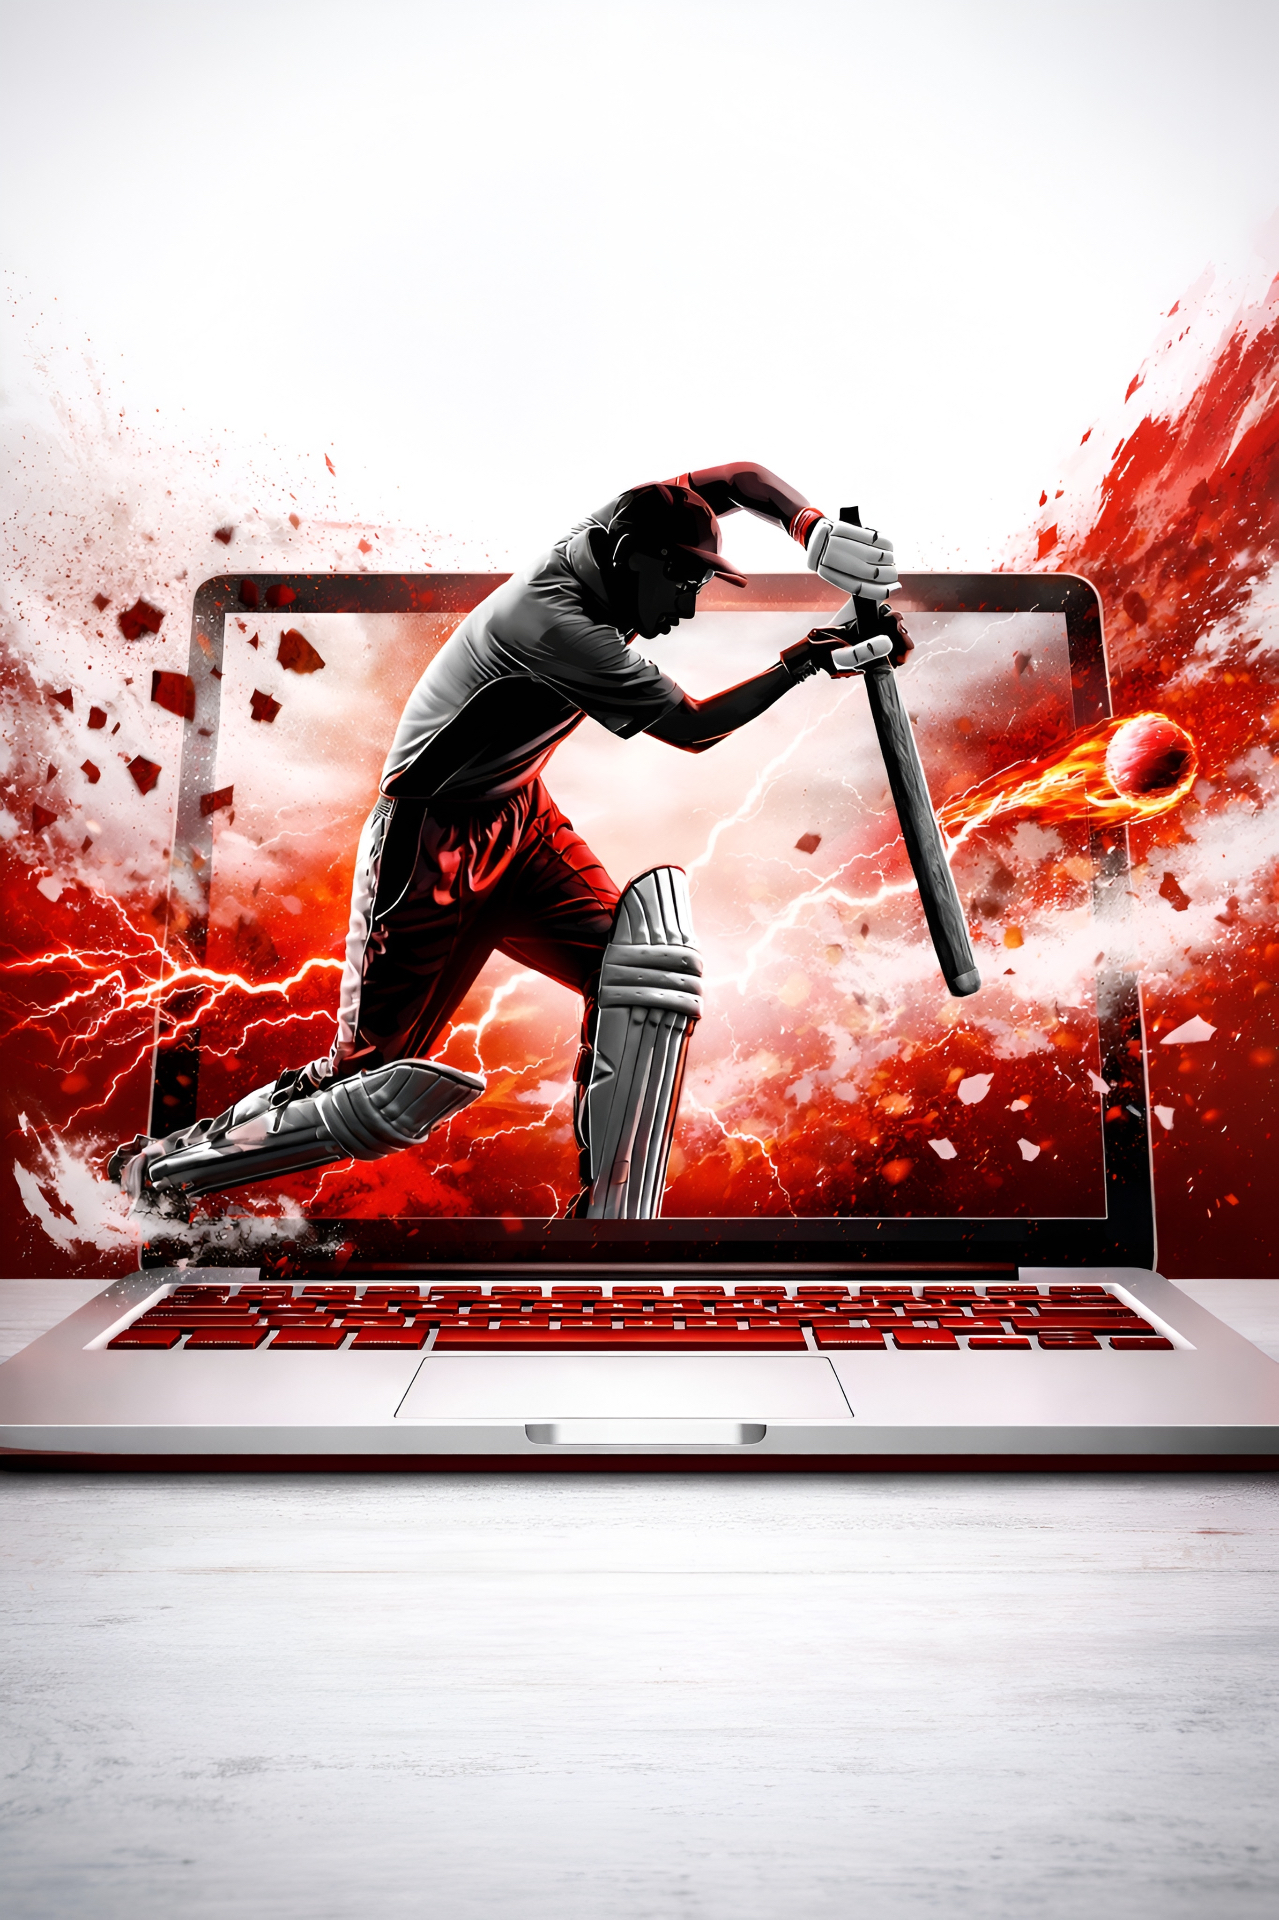
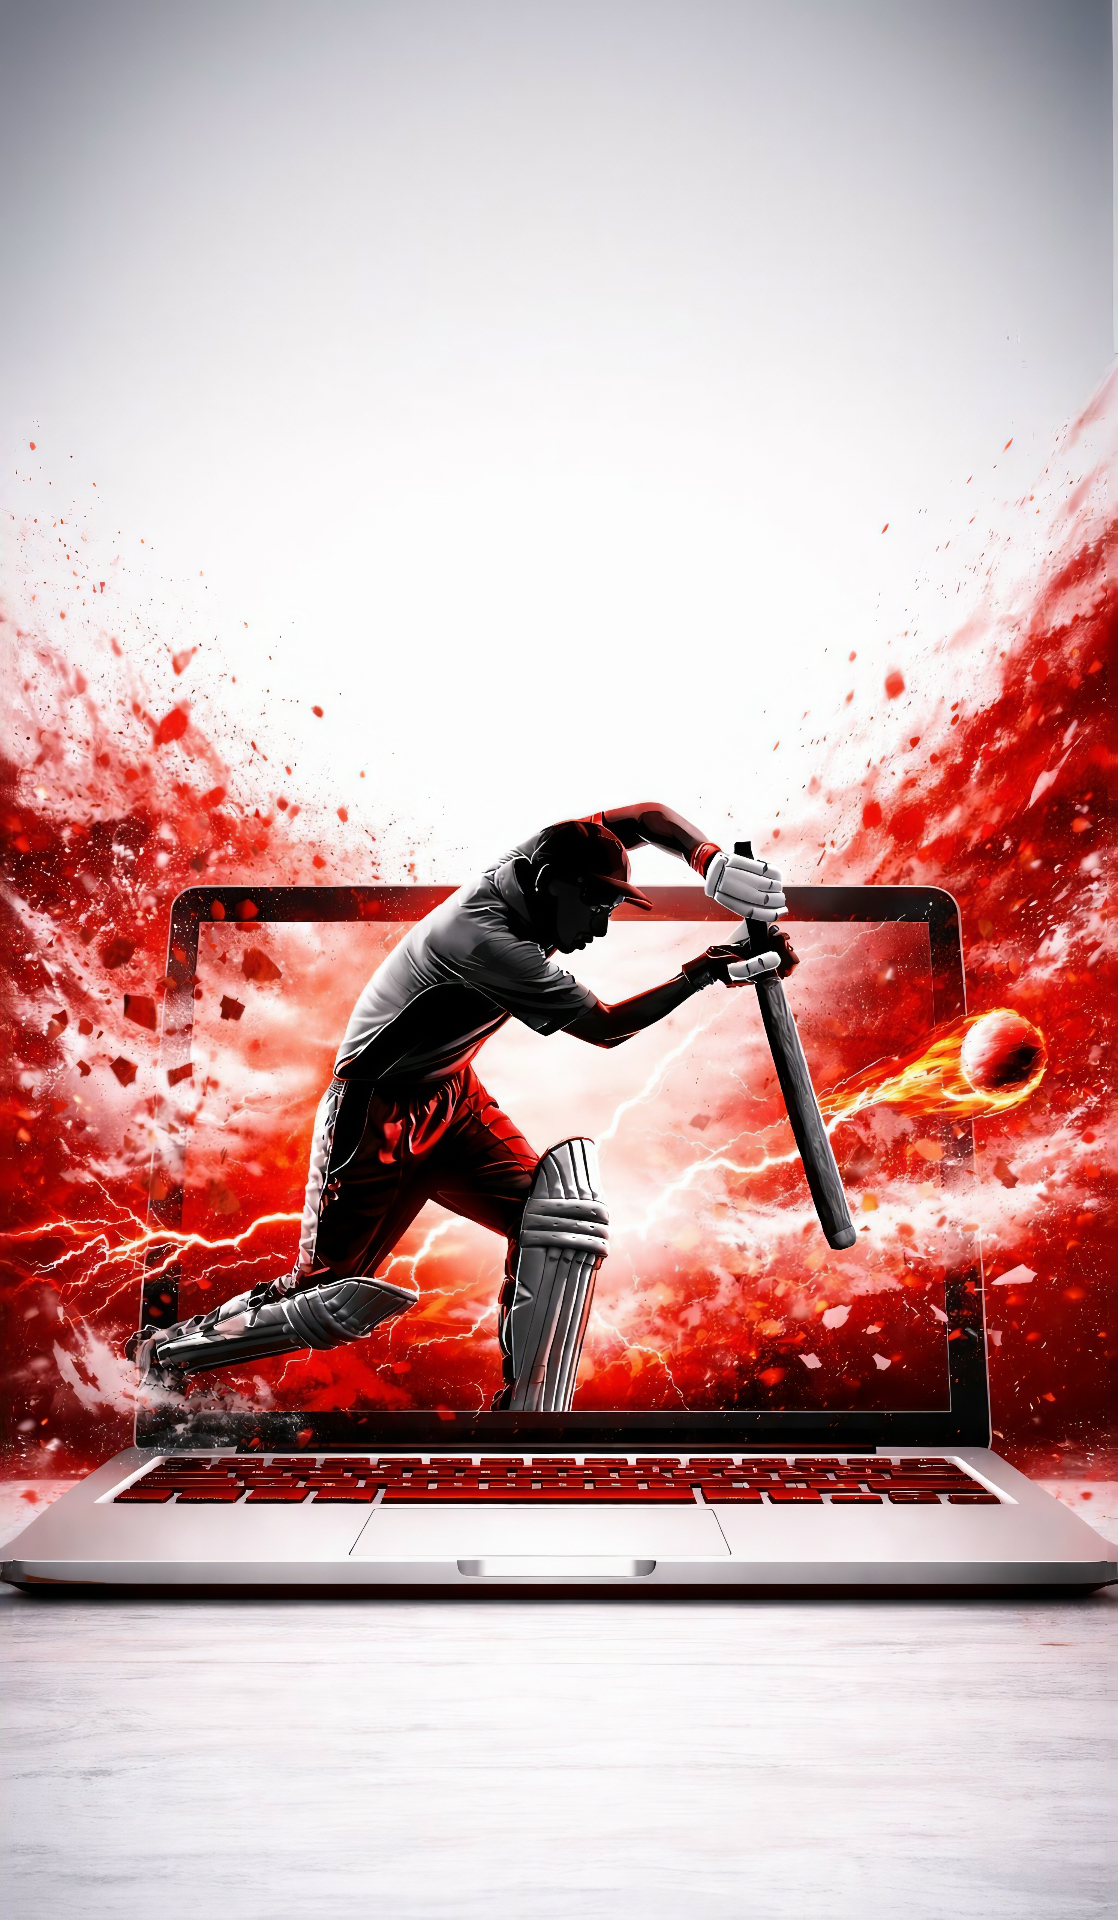
Changes

diff --git a/src/components/HeroSection.tsx b/src/components/HeroSection.tsx
@@ -4,15 +4,16 @@ import brlLogo from "@/assets/logos/brl-logo-new.png";
 
 const HeroSection = () => {
   return (
-    <section id="hero" className="relative min-h-screen flex items-end justify-center overflow-hidden">
+    <section id="hero" className="relative min-h-screen flex items-center justify-center overflow-hidden bg-gradient-to-b from-white via-white to-background">
       <img
         src={heroBatsman}
         alt="Cricket batsman striking the ball"
-        className="absolute inset-0 w-full h-full object-cover object-top"
+        className="absolute inset-0 w-full h-full object-cover object-center"
       />
-      <div className="absolute inset-0 bg-gradient-to-t from-black/70 via-black/20 to-transparent" />
+      <div className="absolute inset-0 bg-gradient-to-b from-white/40 via-transparent to-background/90" />
+      <div className="absolute inset-0 bg-gradient-to-r from-white/30 via-transparent to-white/30" />
 
-      <div className="container relative z-10 pb-16 md:pb-24 pt-32">
+      <div className="container relative z-10 pt-24 pb-16 md:pb-24">
         <motion.div
           initial={{ opacity: 0, y: 30 }}
           animate={{ opacity: 1, y: 0 }}
@@ -20,26 +21,26 @@ const HeroSection = () => {
           className="text-center"
         >
           <img src={brlLogo} alt="BRL Logo" className="w-20 h-20 sm:w-24 sm:h-24 md:w-28 md:h-28 object-contain mx-auto mb-4 drop-shadow-2xl" />
-          <p className="text-white/70 font-display text-xs sm:text-sm md:text-base font-semibold tracking-[0.3em] uppercase mb-3 drop-shadow-lg">
+          <p className="text-foreground/60 font-display text-xs sm:text-sm md:text-base font-semibold tracking-[0.3em] uppercase mb-3">
             Season 2026 • Bihar's Biggest Cricket Tournament
           </p>
-          <h1 className="font-heading text-4xl sm:text-5xl md:text-7xl lg:text-8xl font-black leading-[1.05] mb-4 drop-shadow-2xl">
-            <span className="text-white">WHERE RURAL</span>
+          <h1 className="font-heading text-4xl sm:text-5xl md:text-7xl lg:text-8xl font-black leading-[1.05] mb-4">
+            <span className="text-foreground">WHERE RURAL</span>
             <br />
-            <span className="text-white">TALENT</span>{" "}
-            <span className="text-primary-foreground" style={{ WebkitTextStroke: '1px hsl(340 70% 35%)' }}>MEETS</span>
+            <span className="text-foreground">TALENT</span>{" "}
+            <span className="text-gradient-primary">MEETS</span>
             <br />
-            <span className="text-white">THE </span>
-            <span className="text-white">BIG STAGE</span>
+            <span className="text-foreground">THE </span>
+            <span className="text-foreground">BIG STAGE</span>
           </h1>
-          <p className="text-white/70 text-sm sm:text-base md:text-lg max-w-lg mx-auto mb-8 drop-shadow-lg">
+          <p className="text-foreground/60 text-sm sm:text-base md:text-lg max-w-lg mx-auto mb-8">
             Unleashing the power of grassroots cricket across Bihar.
             16 teams, 1 champion — the battle begins now.
           </p>
           <div className="flex justify-center">
             <a
               href="#teams"
-              className="inline-flex items-center justify-center px-6 py-3 rounded-lg border border-white/30 text-white font-heading font-semibold text-sm tracking-wider uppercase hover:bg-white/10 transition-colors backdrop-blur-sm"
+              className="inline-flex items-center justify-center px-6 py-3 rounded-lg border border-primary/30 text-primary font-heading font-semibold text-sm tracking-wider uppercase hover:bg-primary/5 transition-colors backdrop-blur-sm"
             >
               Explore Teams
             </a>

diff --git a/src/components/Navbar.tsx b/src/components/Navbar.tsx
@@ -80,7 +80,7 @@ const Navbar = () => {
           <img
             src={brlLogo}
             alt="Bihar Rural League"
-            className="w-12 h-12 md:w-14 md:h-14 object-contain transition-transform duration-300 group-hover:scale-105"
+            className="w-14 h-14 sm:w-16 sm:h-16 md:w-14 md:h-14 object-contain transition-transform duration-300 group-hover:scale-105"
           />
           {/* Desktop only text */}
           <div className="hidden md:flex flex-col">
